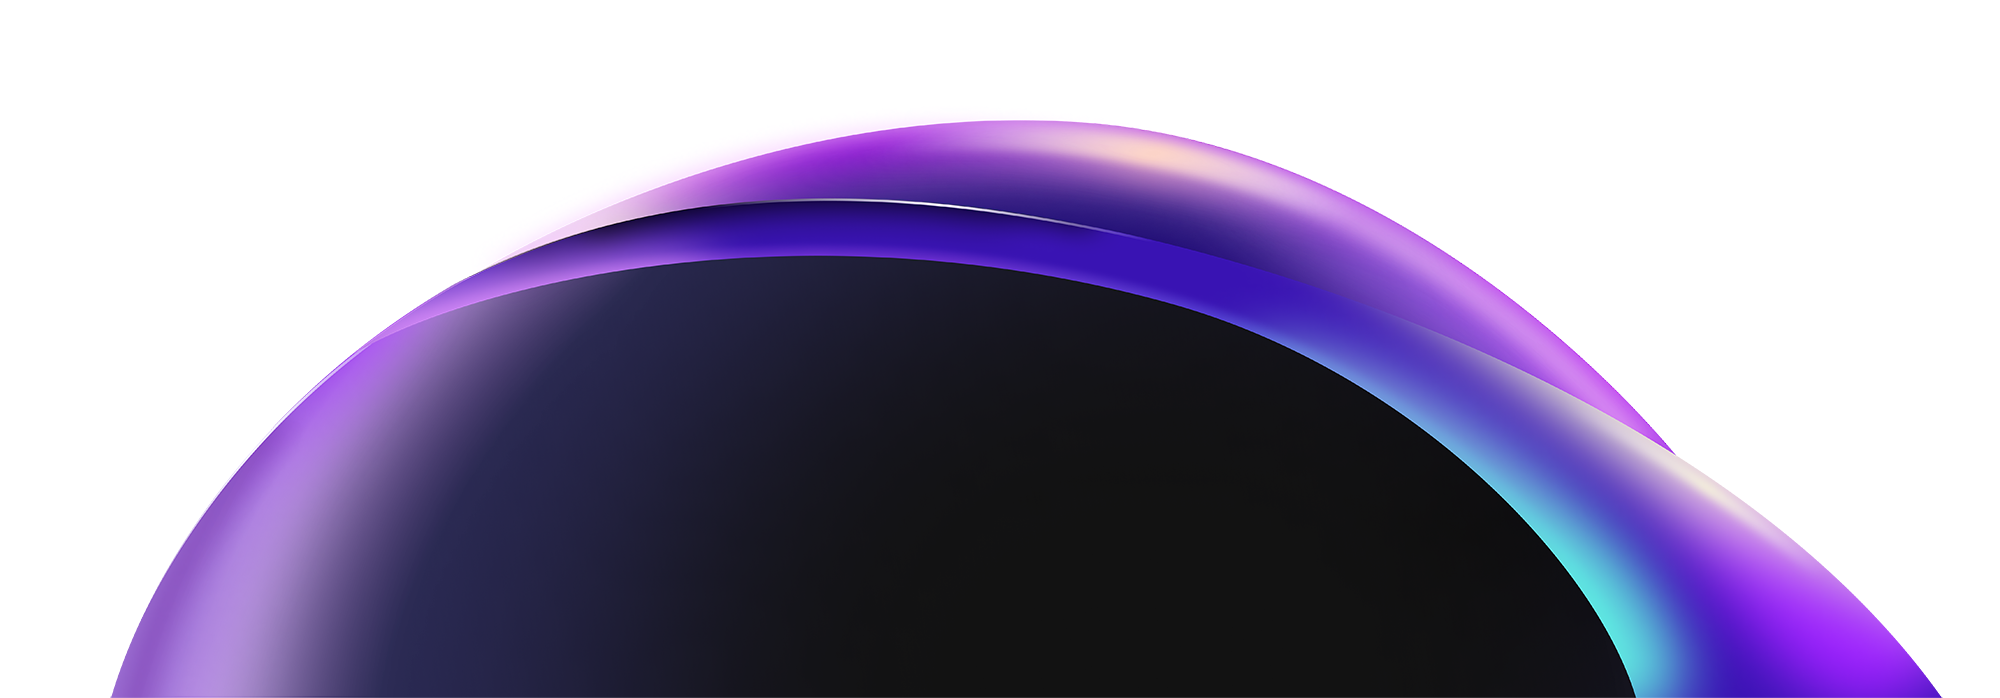
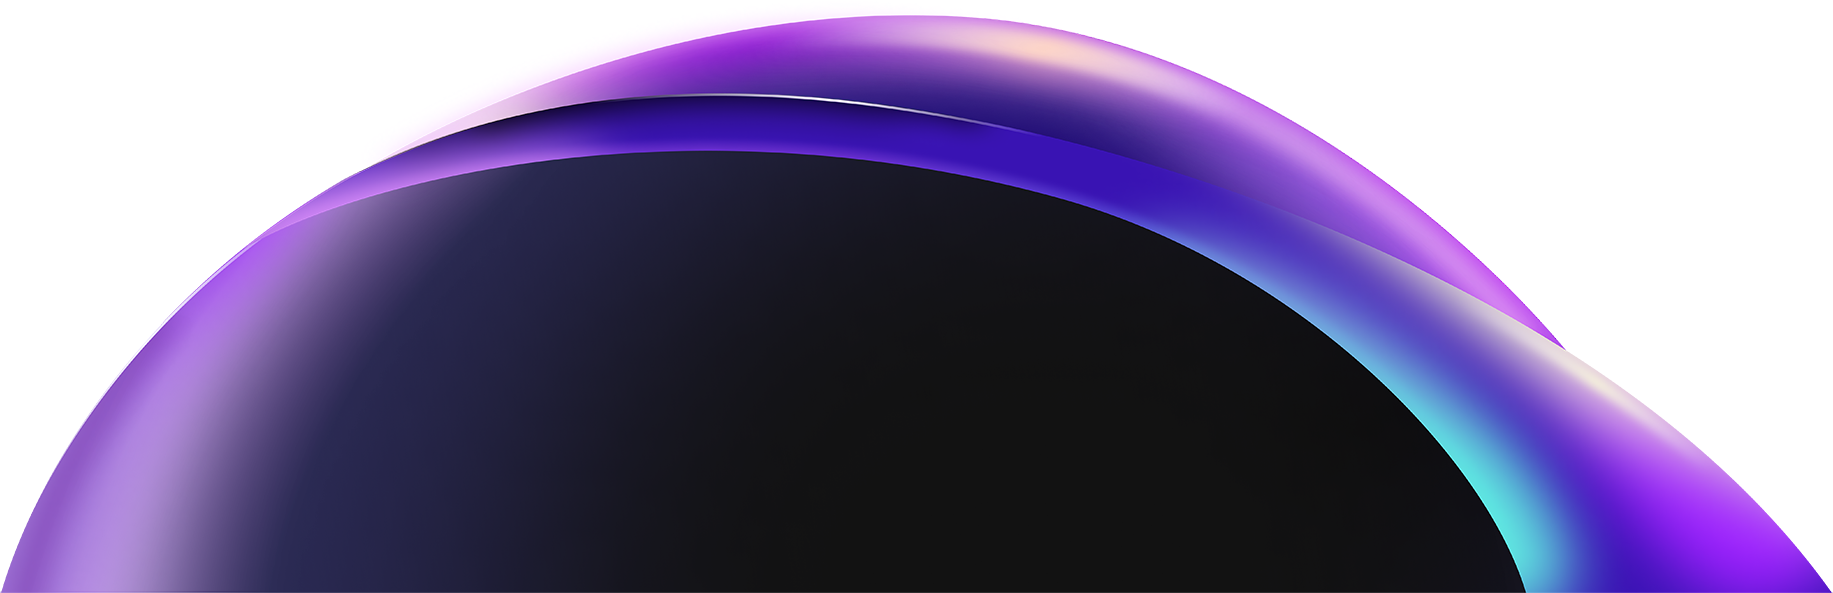
LW7: Fix ticket height and overall UI

diff --git a/apps/www/components/LaunchWeek/Ticket/ActualTicket.tsx b/apps/www/components/LaunchWeek/Ticket/ActualTicket.tsx
@@ -44,9 +44,9 @@ export default function Ticket({
   useEffect(() => {
     if (ticketRef.current && !window.matchMedia('(pointer: coarse)').matches) {
       Tilt.init(ticketRef.current, {
-        glare: false,
-        max: 5,
-        'max-glare': 0.16,
+        glare: true,
+        max: 4,
+        'max-glare': 0.1,
         'full-page-listening': true,
       })
     }
@@ -61,11 +61,11 @@ export default function Ticket({
 
   return (
     <div
-      className="grid grid-cols-1 xl:grid-cols-12 gap-8 xl:gap-8 2xl:gap-16 p-4 bg-[#a988d748] rounded-2xl items-center h-[520px] lg:h-[400px] "
+      className="grid grid-cols-1 xl:grid-cols-12 gap-8 xl:gap-8 2xl:gap-16 p-2 bg-[#a988d748] rounded-2xl items-stretch h-auto"
       id="wayfinding--ticket-visual-wrapper-container"
     >
       <div
-        className={cn(styles['ticket-visual-wrapper'], 'col-span-8')}
+        className={cn(styles['ticket-visual-wrapper'], 'flex items-stretch col-span-8')}
         id="wayfinding--ticket-visual-wrapper"
       >
         <div
@@ -74,8 +74,8 @@ export default function Ticket({
             styles['ticket-visual'],
             styleUtils.appear,
             styleUtils['appear-fourth'],
-            username ? 'h-[390px]' : 'h-[395px]',
-            'relative mx-2 rounded-xl'
+            username ? 'h-[420px]' : 'h-[395px]',
+            'relative flex flex-col gap-2 w-full h-full rounded-xl box-border bg-transparent overflow-hidden'
           )}
           id="wayfinding--ticket-visual-outer-container"
         >
@@ -88,7 +88,7 @@ export default function Ticket({
             golden={golden}
           />
           {username && (
-            <div className="mt-4">
+            <div>
               <TicketCopy username={username} />
             </div>
           )}
@@ -111,7 +111,10 @@ export default function Ticket({
           </>
         )}
       </div>
-      <div ref={divRef} className="flex flex-col gap-6 col-span-4">
+      <div
+        ref={divRef}
+        className="flex flex-col h-full justify-center gap-6 col-span-4 2xl:col-span-3"
+      >
         <div
           className={`
           text-scale-1200

diff --git a/apps/www/components/LaunchWeek/Ticket/TicketProfile.tsx b/apps/www/components/LaunchWeek/Ticket/TicketProfile.tsx
@@ -3,6 +3,7 @@ import cn from 'classnames'
 import TicketForm from './TicketForm'
 // import IconAvatar from '~/components/LaunchWeek/Ticket/icons/icon-avatar'
 import styles from './ticket-profile.module.css'
+import Image from 'next/image'
 
 type TicketGenerationState = 'default' | 'loading'
 type Props = {
@@ -25,7 +26,7 @@ export default function TicketProfile({
   golden = false,
 }: Props) {
   return (
-    <div className="grid items-center justify-center" id="wayfinding--ticket-middle">
+    <div className="grid gap-4 items-center justify-center" id="wayfinding--ticket-middle">
       {username && (
         <span
           className={cn('rounded-full inline-block mx-auto', styles.wrapper, styles.rounded, {
@@ -33,9 +34,12 @@ export default function TicketProfile({
           })}
         >
           {username ? (
-            <img
+            <Image
               src={`https://github.com/${username}.png`}
               alt={username}
+              layout="fill"
+              objectFit="contain"
+              priority
               className={styles.image}
             />
           ) : (
@@ -59,7 +63,7 @@ export default function TicketProfile({
               styles.name,
               { [styles['name-blank']]: !username },
               { [styles['name-golden']]: golden }
-            )} dark:text-white`}
+            )} dark:text-white text-center`}
           >
             <span
               className={`${cn(styles.skeleton, styles.wrapper, {

diff --git a/apps/www/components/LaunchWeek/Ticket/ticket-copy.tsx b/apps/www/components/LaunchWeek/Ticket/ticket-copy.tsx
@@ -39,7 +39,7 @@ export default function TicketCopy({ username }: Props) {
     <button
       type="button"
       name="Copy"
-      className="bg-[#E6E8EB] text-scale-500 text-xs w-21 flex items-center cursor-pointer py-1 px-2 rounded-md"
+      className="bg-[#E6E8EB] text-scale-500 text-xs w-21 flex items-center cursor-pointer py-1 px-2 rounded-lg"
       ref={buttonRef}
       onClick={() => {
         navigator.clipboard.writeText(url).then(() => {
@@ -69,7 +69,7 @@ export default function TicketCopy({ username }: Props) {
       className={cn(
         styleUtils.appear,
         styleUtils['appear-third'],
-        'bg-scaleA-200 h-8 rounded-md border border-scale-1100 w-full'
+        'bg-scaleA-200 h-8 rounded-xl border border-scale-1100 w-full overflow-hidden'
       )}
       id="wayfinding--ticket-copy"
     >

diff --git a/apps/www/components/LaunchWeek/LW7BgGraphic.tsx b/apps/www/components/LaunchWeek/LW7BgGraphic.tsx
@@ -20,9 +20,9 @@ export default function LW7BgGraphic() {
   )
 
   return (
-    <div className="mt-8 relative h-[640px] overflow-hidden before:content[' '] before:absolute before:bottom-0 before:h-[400px] before:z-20 before:w-full before:bg-gradient-to-t before:from-[#1C1C1C] before:via-[#1C1C1C40] before:to-transparent">
+    <div className="relative h-[640px] overflow-hidden before:content[' '] before:absolute before:bottom-0 before:h-[400px] before:z-20 before:w-full before:bg-gradient-to-t before:from-[#1C1C1C] before:via-[#1C1C1C40] before:to-transparent">
       <motion.div
-        className="absolute bottom-0 w-full h-full mt-40"
+        className="absolute bottom-0 w-full h-full"
         style={{
           scale: graphicsScale,
           y: graphicsY,

diff --git a/apps/www/pages/launch-week/index.tsx b/apps/www/pages/launch-week/index.tsx
@@ -107,7 +107,8 @@ export default function TicketHome({ users }: Props) {
         <div className="bg-[#1C1C1C] -mt-20">
           <div className="relative bg-lw7 pt-20">
             <div className="relative z-10">
-              <SectionContainer className="flex flex-col !pb-1 items-center lg:pt-32 gap-24">
+              {/* <SectionContainer className="flex flex-col justify-between items-center min-h-[800px] h-[calc(100vh_-_75px)] gap-4"> */}
+              <SectionContainer className="flex flex-col justify-between items-center !pb-16 gap-16">
                 <LaunchWeekLogoHeader />
 
                 {supabase && (

diff --git a/apps/www/pages/launch-week/tickets/[username].tsx b/apps/www/pages/launch-week/tickets/[username].tsx
@@ -66,7 +66,7 @@ export default function TicketShare({ user, users }: Props) {
         <div className="bg-[#1C1C1C] -mt-20">
           <div className="relative bg-lw7 pt-20">
             <div className="relative z-10">
-              <SectionContainer className="flex flex-col !pb-1 items-center lg:pt-32 gap-24">
+              <SectionContainer className="flex flex-col justify-between items-center !pb-16 gap-16">
                 <LaunchWeekLogoHeader />
                 <TicketContainer
                   supabase={supabase}

diff --git a/apps/www/components/LaunchWeek/Ticket/TicketVisual.tsx b/apps/www/components/LaunchWeek/Ticket/TicketVisual.tsx
@@ -43,7 +43,7 @@ export default function TicketVisual({
           styles.visual,
           golden ? styles['visual--gold'] : '',
           session ? styles['visual--logged-in'] : '',
-          'flex  relative flex-col justify-between rounded-xl bg-black ',
+          'flex relative flex-col flex-1 justify-between rounded-xl bg-black w-full h-full box-border',
         ].join(' ')}
         style={{
           ['--size' as string]: size,

diff --git a/apps/www/components/LaunchWeek/Ticket/ticket-mono.tsx b/apps/www/components/LaunchWeek/Ticket/ticket-mono.tsx
@@ -6,10 +6,11 @@ export default function TicketMono({ golden = false }: { golden?: boolean }) {
   return (
     <svg
       width="100%"
-      height="100%"
-      viewBox="0 0 650 290"
+      height="auto"
+      viewBox="0 0 650 100"
       fill="none"
       xmlns="http://www.w3.org/2000/svg"
+      preserveAspectRatio="none"
     >
       <path
         fillRule="evenodd"

diff --git a/apps/www/components/LaunchWeek/Ticket/ticket.module.css b/apps/www/components/LaunchWeek/Ticket/ticket.module.css
@@ -123,6 +123,6 @@
 }
 
 .ticket-visual-wrapper {
-  border-radius: calc(16px * var(--size));
+  /* border-radius: calc(16px * var(--size)); */
   width: 100%;
 }
